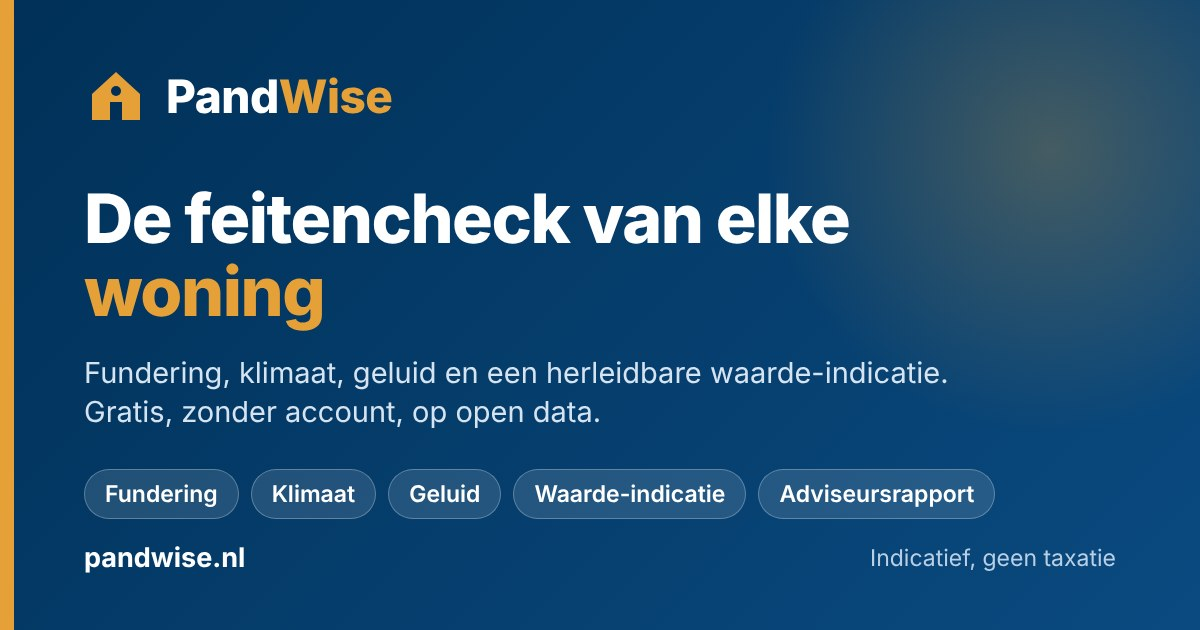
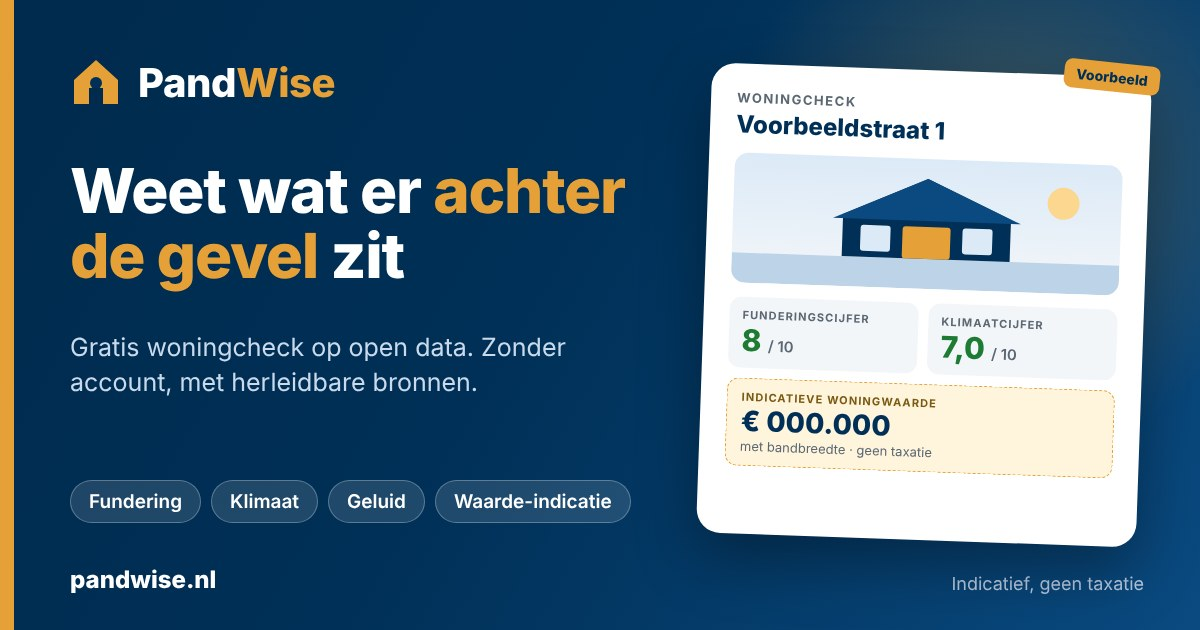
2.20.4: nieuwe deelafbeelding (WhatsApp, LinkedIn, Facebook) met voorbeeldkaart en slogan (#34)
Claude-Session: https://claude.ai/code/session_01WouGZQheA8xbLYffvUxVh7

diff --git a/index.html b/index.html
@@ -124,15 +124,15 @@
 <meta property="og:url" content="https://pandwise.nl/">
 <meta property="og:title" content="PandWise – gratis woningcheck: waarde, fundering, klimaat">
 <meta property="og:description" content="Fundering, klimaat, geluid en een herleidbare waarde-indicatie. Gratis, zonder account, op open data. Indicatief, geen taxatie.">
-<meta property="og:image" content="https://pandwise.nl/og-image.jpg">
+<meta property="og:image" content="https://pandwise.nl/og-image.jpg?v=2">
 <meta property="og:image:type" content="image/jpeg">
 <meta property="og:image:width" content="1200">
 <meta property="og:image:height" content="630">
-<meta property="og:image:alt" content="PandWise: de feitencheck van elke woning. Fundering, klimaat, geluid, waarde-indicatie en adviseursrapport.">
+<meta property="og:image:alt" content="PandWise: weet wat er achter de gevel zit. Gratis woningcheck met funderingscijfer, klimaatcijfer en waarde-indicatie (voorbeeldkaart).">
 <meta name="twitter:card" content="summary_large_image">
 <meta name="twitter:title" content="PandWise – gratis woningcheck: waarde, fundering, klimaat">
 <meta name="twitter:description" content="Fundering, klimaat, geluid en een herleidbare waarde-indicatie. Gratis, zonder account, op open data.">
-<meta name="twitter:image" content="https://pandwise.nl/og-image.jpg">
+<meta name="twitter:image" content="https://pandwise.nl/og-image.jpg?v=2">
 <link rel="preconnect" href="https://fonts.googleapis.com">
 <link href="https://fonts.googleapis.com/css2?family=Plus+Jakarta+Sans:wght@500;600;700;800&family=DM+Sans:wght@400;500;600&display=swap" rel="stylesheet">
 <style>
@@ -3328,7 +3328,7 @@ document.addEventListener('input',e=>{
 });
 
 bronReset();
-const MODEL_VERSIE = '2.20.3'; const MODEL_DATUM = '2026-12-17';
+const MODEL_VERSIE = '2.20.4'; const MODEL_DATUM = '2026-12-17';
 function maakDeelLink(adres, vraagprijs, status, datum) {
   const p=new URLSearchParams(); if(adres) p.set('q',adres); if(vraagprijs) p.set('vp',String(Math.round(vraagprijs))); if(status) p.set('st',status); if(datum) p.set('dt',datum);
   return location.pathname+'#'+p.toString(); }
